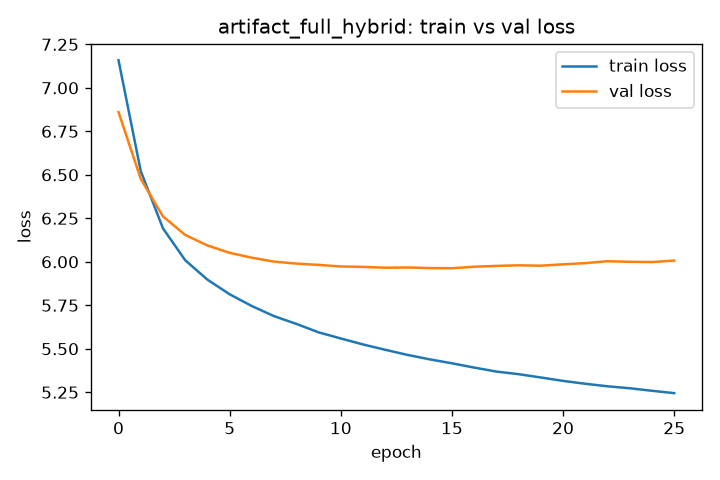
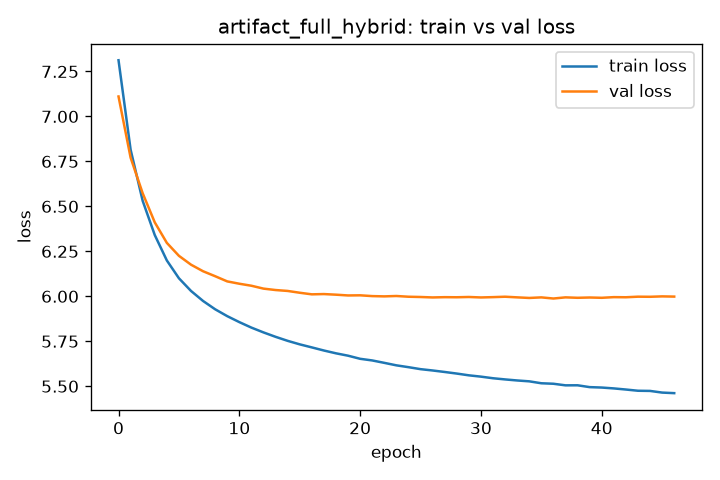
Update experiment results

diff --git a/src/track.py b/src/track.py
@@ -49,7 +49,7 @@ def build_leaderboard() -> None:
     """Regenerate results/leaderboard.md from the cumulative log."""
     if not os.path.exists(LOG):
         return
-    rows = list(csv.DictReader(open(LOG)))
+    rows = list(csv.DictReader(open(LOG, encoding="utf-8", errors="replace")))
     out = [
         "# Reverie — Experiment Progress Log",
         "",